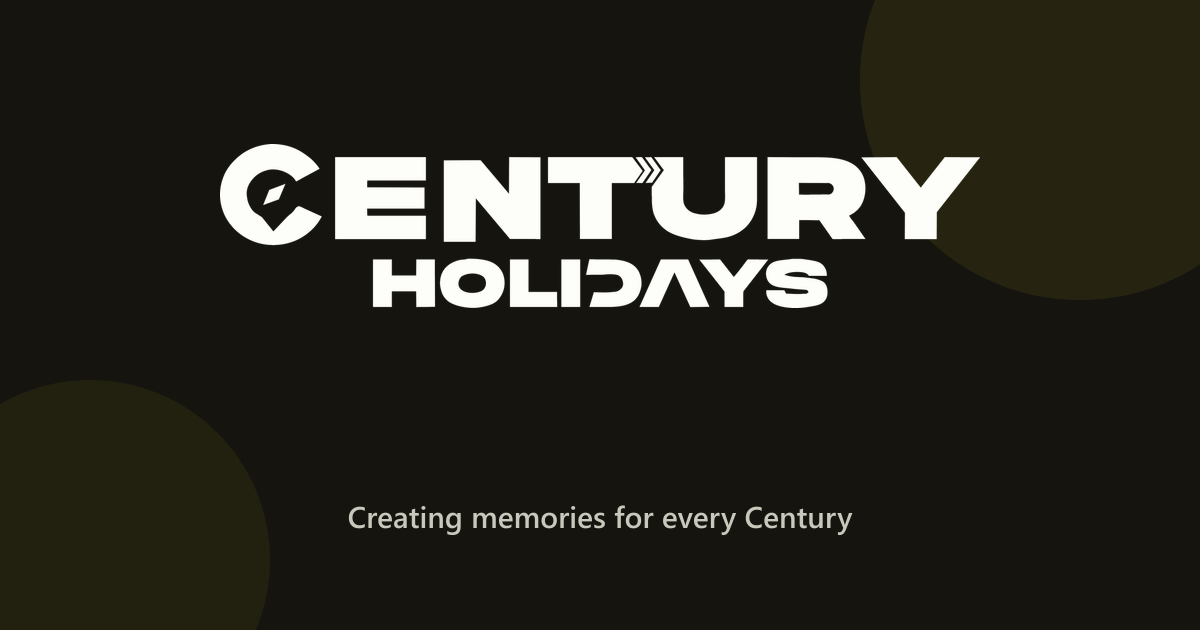
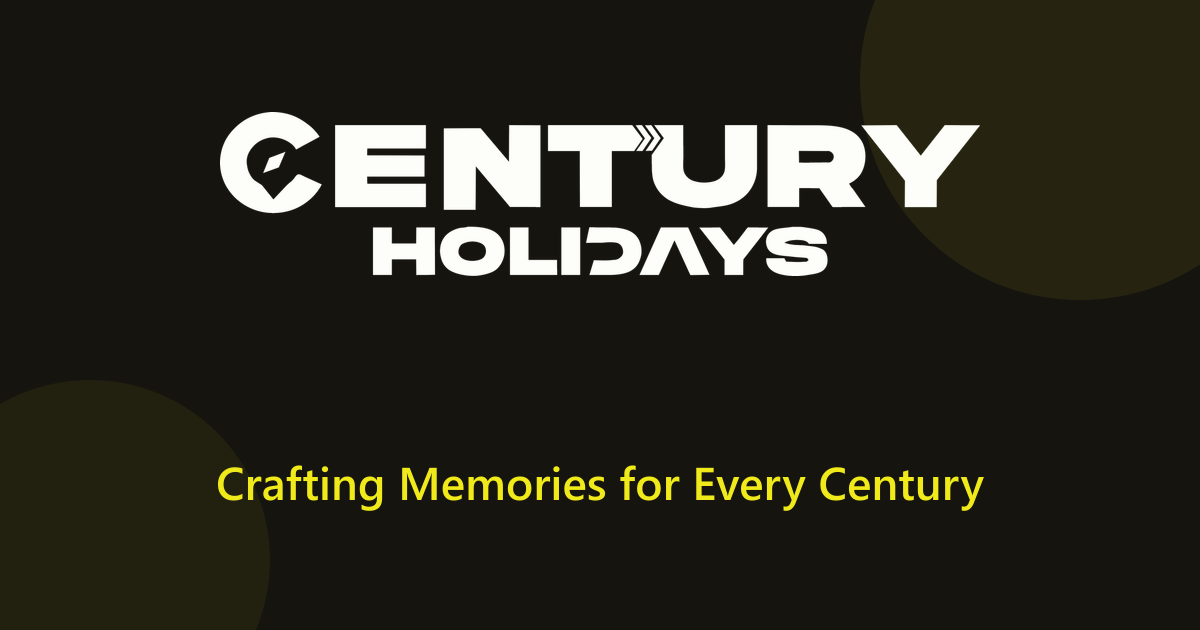
feat(seo): brand name and tagline on every shared link
Link previews on WhatsApp, Facebook, LinkedIn and X now show "Century
Holidays | Crafting Memories for Every Century" for every page, not just the
homepage. Inner pages previously shared their search title, e.g. "About Us |
Century Holidays, Travel Company in Nashik", with no tagline.

- og:title, twitter:title and og:image:alt use a single share title built
  from BUSINESS.name and BUSINESS.tagline. Each page's <title> for Google and
  its own description are unchanged.
- The tagline becomes Title Case in site.ts, which also updates the schema.org
  slogan, so every surface uses the same wording.

Preview image:
- og-cover.png carried the wrong tagline, "Creating memories for every
  Century", in small grey 30px text that shrank to roughly 9px in a phone
  thumbnail. Regenerated with the correct tagline in brand yellow at 46px,
  with the logo and tagline centred as one group. Still 1200x630, now 55 KB.
  The favicons the same script writes came out byte-identical.
- The image URL gains ?v=2. Apps cache preview images by URL, so without it
  links already shared would keep the old tagline.

Changed region(s): [[0.185, 0.181, 0.8325, 0.5127], [0.185, 0.7238, 0.8325, 0.8444]]

diff --git a/src/data/site.ts b/src/data/site.ts
@@ -33,7 +33,11 @@ import { EMAIL, PHONE_E164, SOCIAL } from './contact';
 --------------------------------------------------------------------------- */
 export const BUSINESS = {
   name: 'Century Holidays',
-  tagline: 'Crafting memories for every century',
+  /**
+   * Brand tagline. Also forms the title of the link preview whenever any page
+   * is shared (WhatsApp, Facebook, LinkedIn, X): "Century Holidays | <tagline>".
+   */
+  tagline: 'Crafting Memories for Every Century',
   /** Short description reused in structured data and social previews. */
   summary:
     'Century Holidays is a travel agency based in Nashik, Maharashtra, planning custom holiday packages, group treks and international tours for travellers from Nashik, Pune and Mumbai.',

diff --git a/README.md b/README.md
@@ -180,3 +180,10 @@ it. Deploying means running `npm run build` and publishing `dist/`.
 node scripts/trace-logo.mjs          # redraws public/logo.svg
 node scripts/build-brand-assets.mjs  # redraws favicons + og-cover
 ```
+
+`og-cover.png` is the preview image shown when a link to the site is shared on
+WhatsApp, Facebook, LinkedIn or X. Its tagline is set near the bottom of
+`scripts/build-brand-assets.mjs` (keep it matching `BUSINESS.tagline` in
+`src/data/site.ts`). After replacing the image, bump `?v=` on `ogImageURL` in
+`src/layouts/BaseLayout.astro` — apps cache preview images by URL, and without
+that they keep showing the old one.
